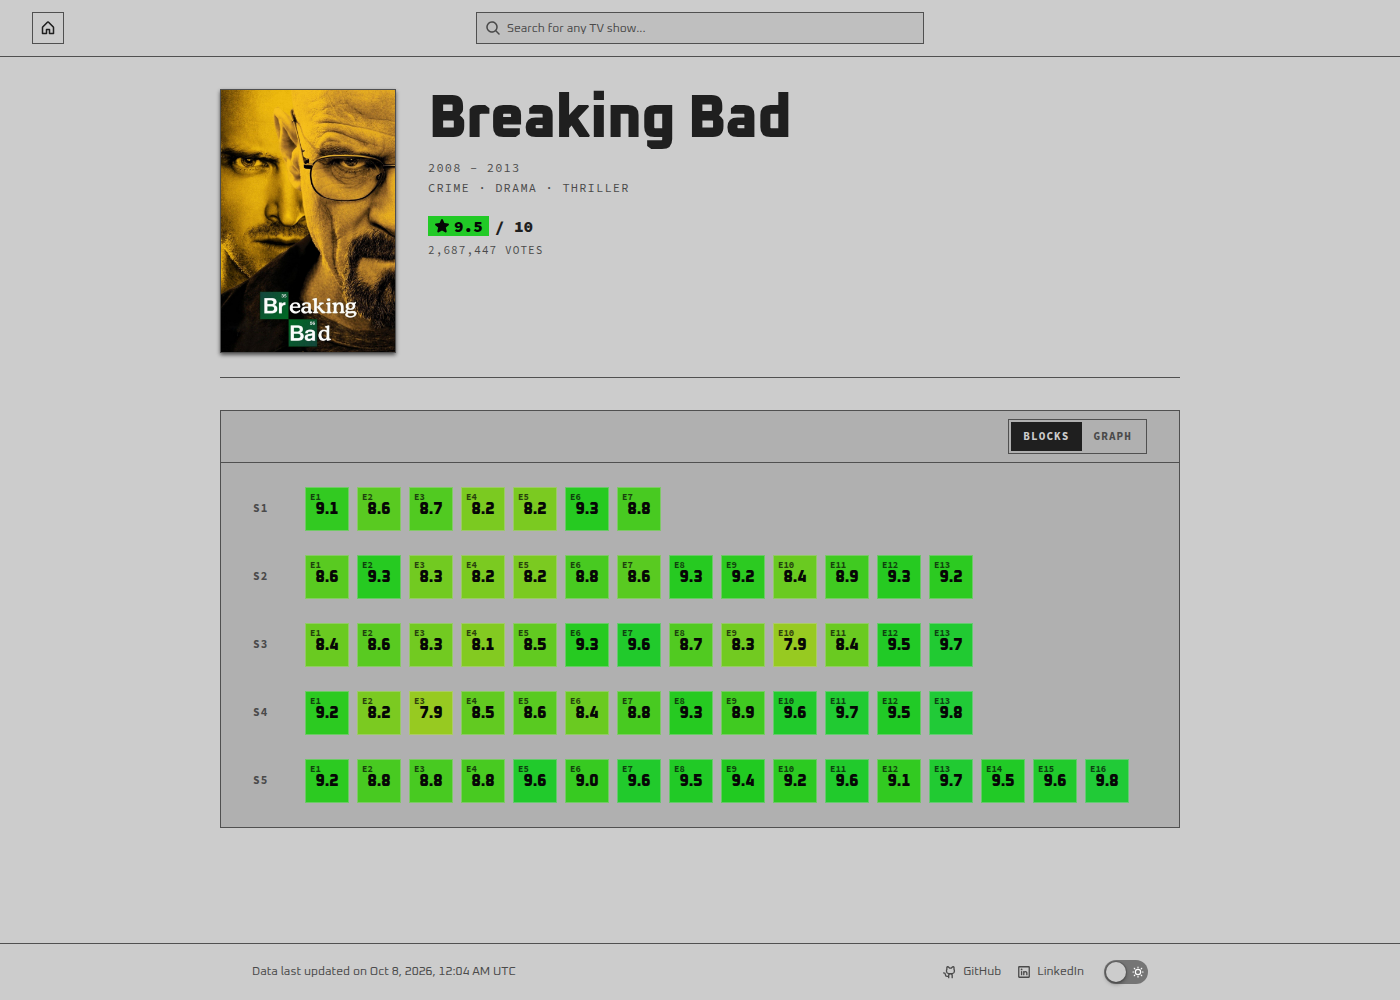
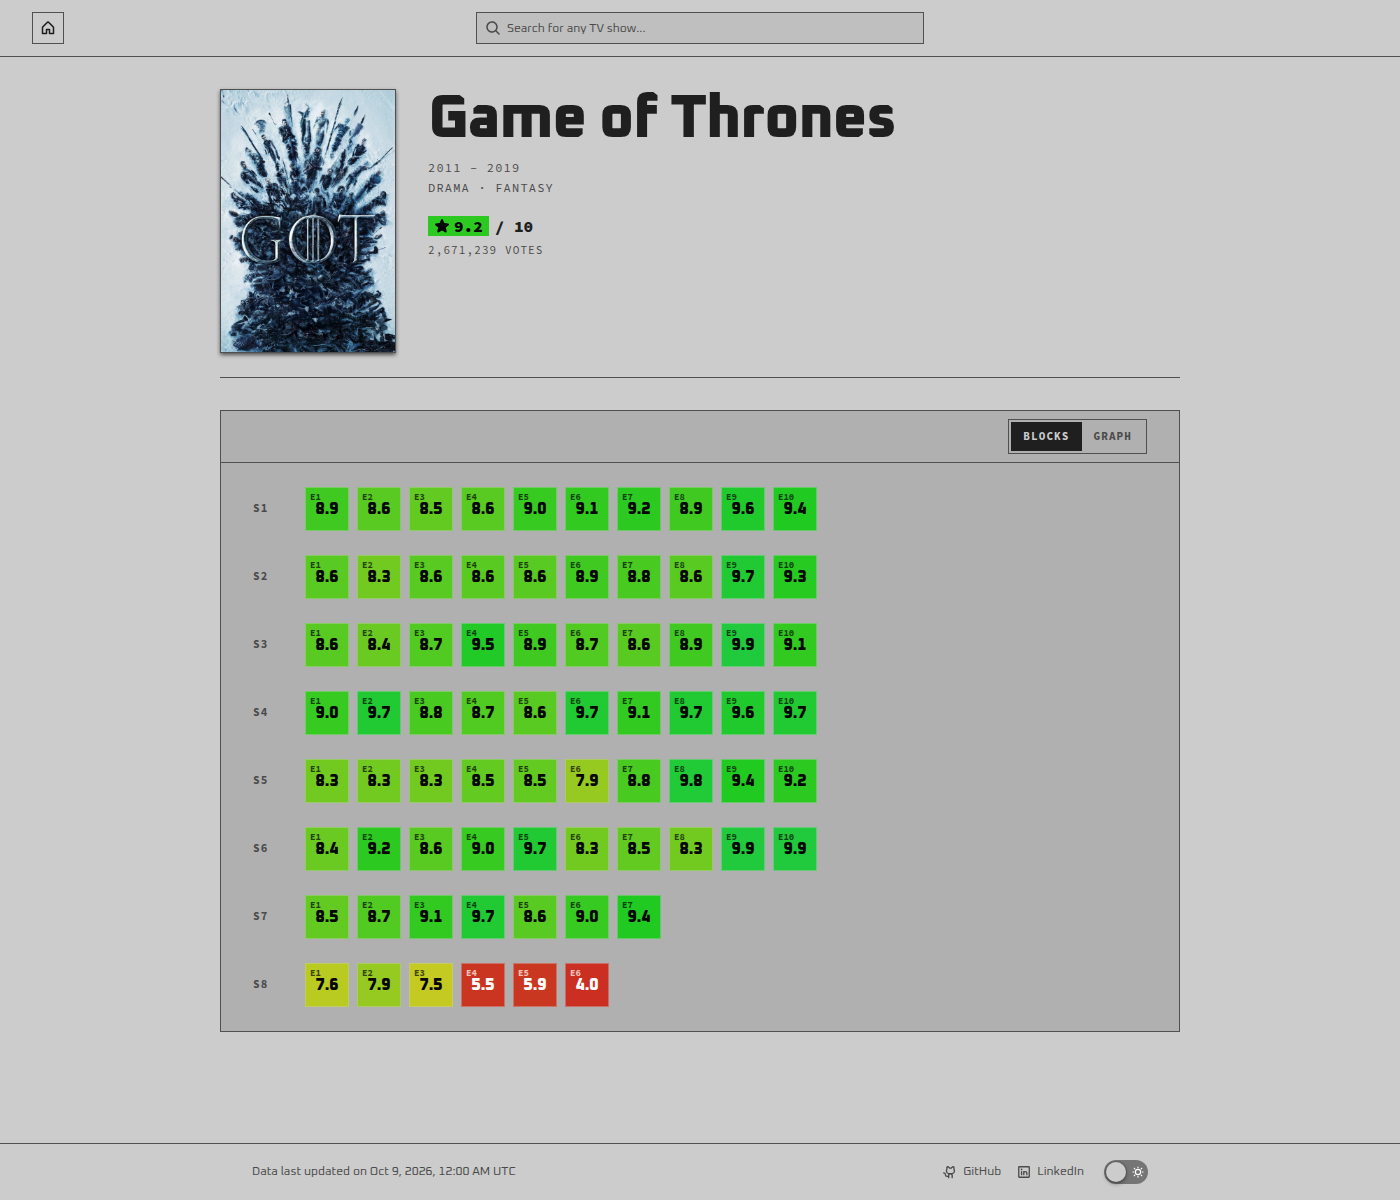
minor fixes

diff --git a/src/styles.css b/src/styles.css
@@ -64,7 +64,7 @@
 	--text-xs: 0.8125rem;
 	--text-xs--line-height: 1.4;
 
-	--font-heading: var(--font-display);
+	--font-heading: var(--font-sans);
 	--font-stretch-board: 80%;
 	--font-stretch-panel: 84%;
 
@@ -75,34 +75,6 @@
 	--radius-2xl: calc(var(--radius) + 10px);
 	--radius-3xl: calc(var(--radius) + 14px);
 	--radius-4xl: calc(var(--radius) + 18px);
-}
-
-/* Unlayered so these win over Tailwind's 1px border utilities. */
-.border {
-	border-width: 2px;
-}
-
-.border-b {
-	border-bottom-width: 2px;
-}
-
-.border-t {
-	border-top-width: 2px;
-}
-
-@utility label-mono {
-	font-family: var(--font-mono);
-	font-size: 0.8125rem;
-	line-height: 1.4;
-	text-transform: var(--label-transform);
-	letter-spacing: var(--label-tracking);
-}
-
-@utility bevel {
-	box-shadow:
-		inset 0 1px 0 var(--bevel-highlight),
-		inset 0 -1px 0 var(--bevel-shade),
-		var(--shadow-size) var(--shadow-size) 0 0 var(--shadow-color);
 }
 
 @layer base {

diff --git a/src/lib/profile.ts b/src/lib/profile.ts
@@ -59,11 +59,11 @@ export const project = {
 	name: 'imdbgraph.org',
 	summary: 'Visualize IMDb episode ratings for TV shows. ~2K monthly visits.',
 	liveUrl: 'https://www.imdbgraph.org',
-	exampleUrl: 'https://www.imdbgraph.org/ratings/tt0903747',
+	exampleUrl: 'https://www.imdbgraph.org/ratings/tt0944947',
 	sourceUrl: 'https://github.com/aria-amini/imdbgraph',
 	preview: '/imdbgraph-preview.png',
 	previewAlt:
-		'imdbgraph.org displays Breaking Bad episode ratings as color-coded blocks grouped by season.',
+		'imdbgraph.org displays Game of Thrones episode ratings as color-coded blocks grouped by season.',
 } as const
 
 export const dialogs = ['resume', 'schedule'] as const

diff --git a/src/components/hero.tsx b/src/components/hero.tsx
@@ -1,7 +1,6 @@
 import { CalendarDotsIcon, FileTextIcon } from '@phosphor-icons/react/dist/ssr'
 
 import { RouterButtonLink } from '@/components/button-link'
-import { CopyEmailButton } from '@/components/copy-email-button'
 import { ExperiencePanel } from '@/components/experience-panel'
 import { profile } from '@/lib/profile'
 
@@ -57,10 +56,7 @@ export function Hero() {
 						View resume
 					</RouterButtonLink>
 				</div>
-				<div className="mt-3 flex flex-wrap items-center gap-x-4 text-sm">
-					<span>{profile.email}</span>
-					<CopyEmailButton />
-				</div>
+				<p className="mt-3 text-sm">{profile.email}</p>
 			</div>
 			<ExperiencePanel />
 		</section>

diff --git a/src/components/selected-work.tsx b/src/components/selected-work.tsx
@@ -17,13 +17,13 @@ export function SelectedWork() {
 					href={project.exampleUrl}
 					target="_blank"
 					rel="noreferrer"
-					aria-label="Explore Breaking Bad episode ratings on imdbgraph.org"
+					aria-label="Explore Game of Thrones episode ratings on imdbgraph.org"
 					className="group bg-card ink-shadow block rounded-xl border p-2"
 				>
 					<img
 						src={project.preview}
 						width={1400}
-						height={1000}
+						height={1200}
 						alt={project.previewAlt}
 						loading="lazy"
 						className="ring-border/30 rounded-md ring-1"
